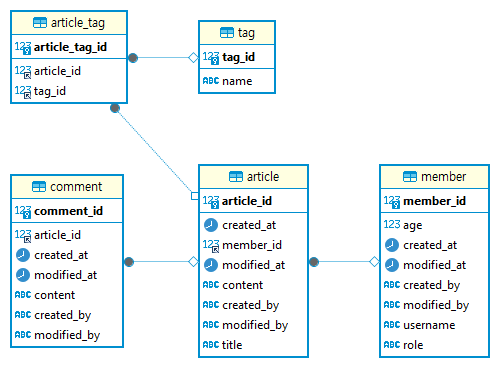
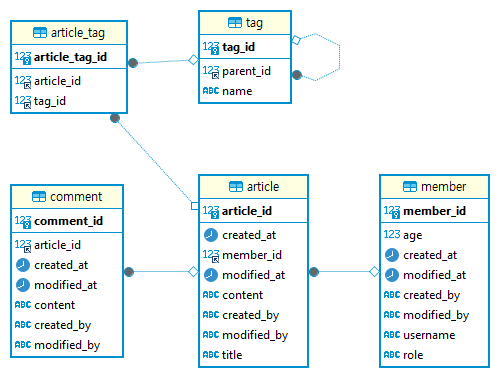
README.md ERD png 수정

diff --git a/src/main/java/practice/post/domain/Tag.java b/src/main/java/practice/post/domain/Tag.java
@@ -16,9 +16,9 @@ public class Tag {
     private Long id;
 
     private String name;
-    
+
     @ManyToOne(fetch = FetchType.LAZY)
-    @JoinColumn(name = "tag_id")
+    @JoinColumn(name = "parent_id")
     private Tag parent;
 
     @OneToMany(mappedBy = "parent")
